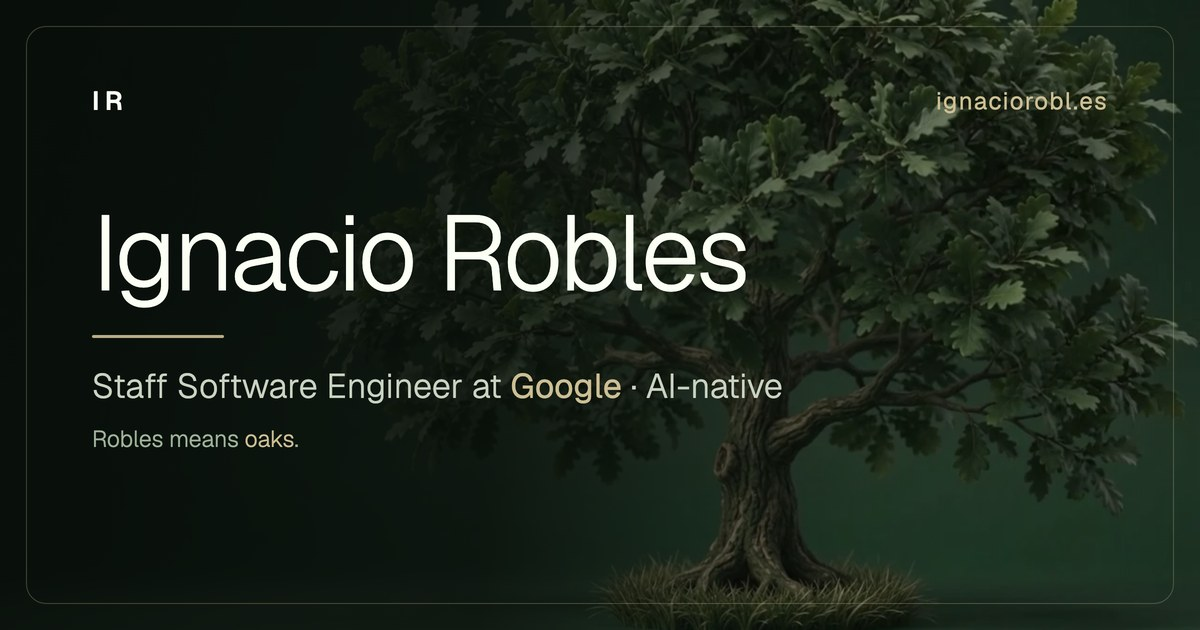
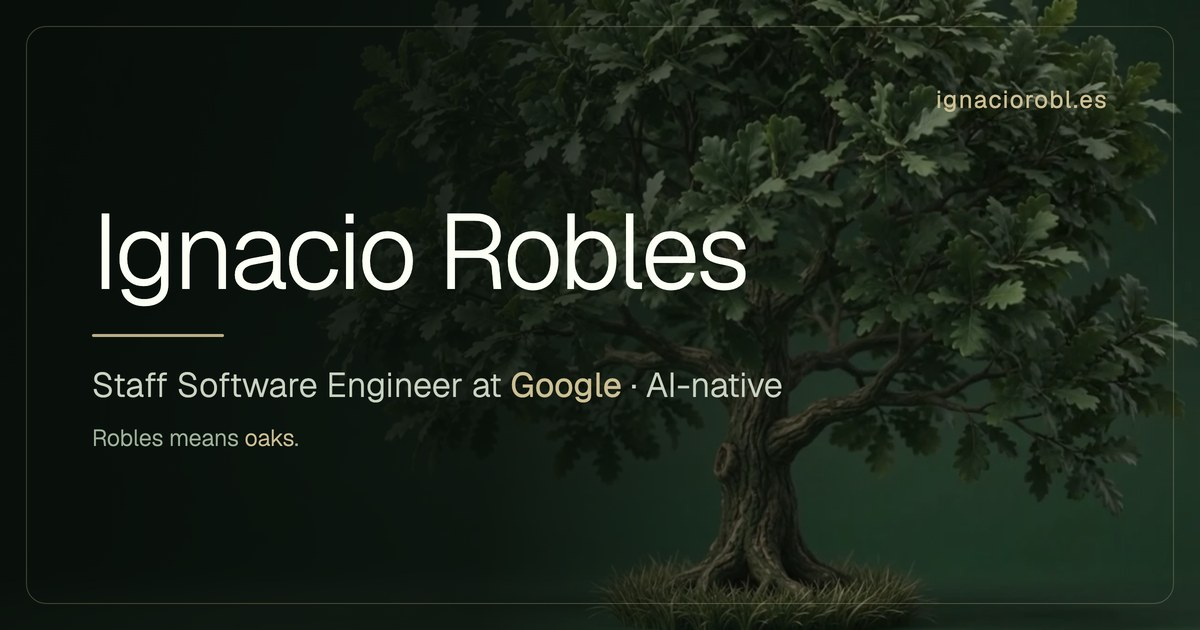
Drop the monogram from the home share card
It reads as noise at card size; the name is already the subject.

diff --git a/og-src/og-home.html b/og-src/og-home.html
@@ -12,8 +12,7 @@
   .frame{position:absolute;inset:26px;border:1px solid rgba(205,191,148,.28);border-radius:20px}
 
   .wrap{position:absolute;inset:0;padding:84px 92px;display:flex;flex-direction:column;justify-content:space-between}
-  .top{display:flex;align-items:center;justify-content:space-between}
-  .mono{font-weight:600;font-size:26px;letter-spacing:.22em}
+  .top{display:flex;align-items:center;justify-content:flex-end}
   .site{font-size:24px;letter-spacing:.06em;color:#cdbf94}
   .mid{margin-top:auto;margin-bottom:auto;max-width:780px}
   h1{font-weight:300;font-size:106px;letter-spacing:-.03em;line-height:.98}
@@ -29,7 +28,6 @@
 <div class="frame"></div>
 <div class="wrap">
   <div class="top">
-    <span class="mono">IR</span>
     <span class="site">ignaciorobl.es</span>
   </div>
   <div class="mid">
